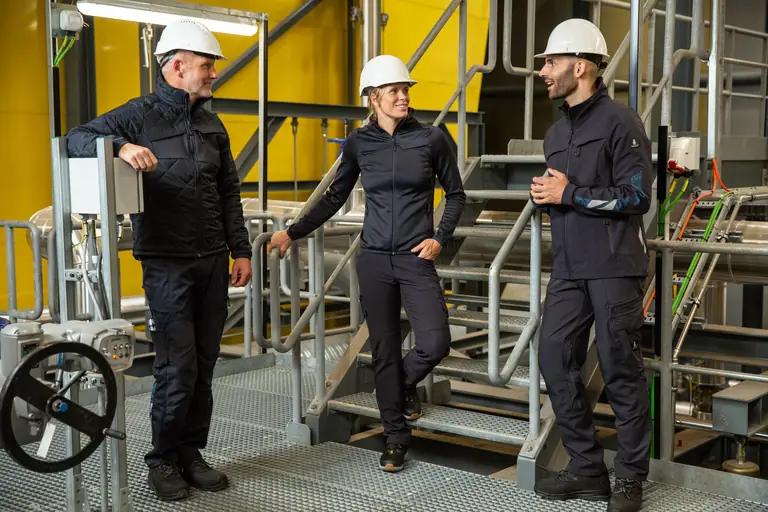
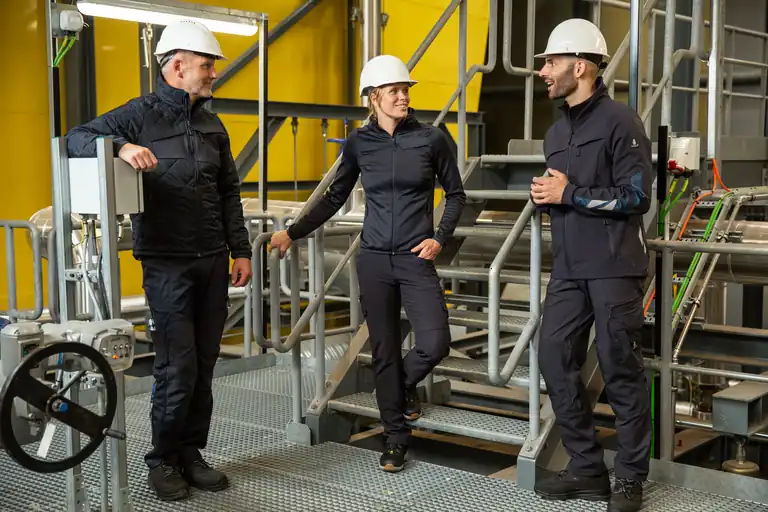
Eroi 768: buget 45 KB (M12 44 KB, S01 46 KB la q50); LCP telefon măsurat: productie 1344 ms (baza 1396, înainte 1516), celelalte pagini fără regres

diff --git a/scripts/images/build-poze-actiune.py b/scripts/images/build-poze-actiune.py
@@ -57,7 +57,7 @@ BASE_WIDTHS = (640, 960, 1440)
 HERO_WIDTHS = (768, 960, 1440, 1920)
 MAX_BYTES = 250 * 1024
 # byte budget per width (ideal range from the brief); quality goes down until a file fits
-BUDGET = {640: 70 * 1024, 768: 56 * 1024, 960: 120 * 1024, 1440: 200 * 1024, 1920: 240 * 1024}
+BUDGET = {640: 70 * 1024, 768: 45 * 1024, 960: 120 * 1024, 1440: 200 * 1024, 1920: 240 * 1024}
 QUALITY_START, QUALITY_MIN, QUALITY_STEP = 80, 50, 2
 # 768 (eroii) pornește de la q70: la q80 ar depăși bugetul, iar măsurătoarea LCP s-a făcut pe q~70
 QUALITY_START_BY_WIDTH = {768: 70}
